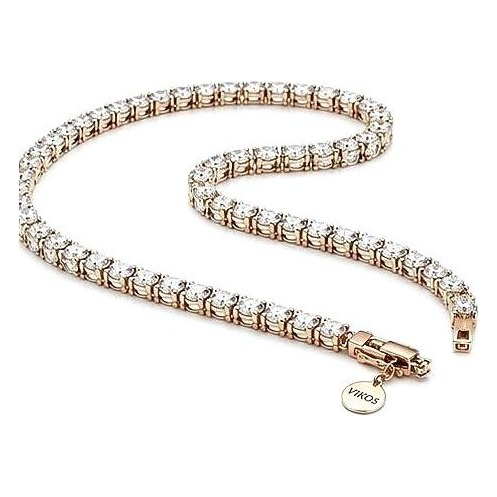
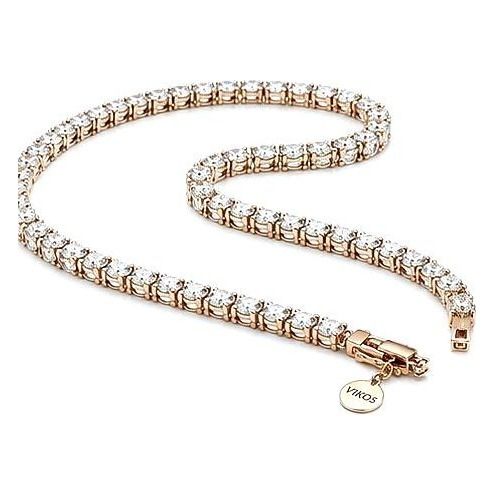
Fix nk_04/nk_05 front crops (full necklace in frame); skeleton instead of stale product flash on shop load

Changed region(s): [[0.0303, 0.1515, 0.9697, 0.8485]]

diff --git a/app/shop/page.tsx b/app/shop/page.tsx
@@ -232,17 +232,17 @@ function ProductCard({ p, index }: { p: Product; index: number }) {
 
 function ShopContent() {
   const { lang } = useLang();
-  // Rings and bracelets exist only in Supabase — exclude static placeholders from initial state
-  const [products, setProducts] = useState<typeof allProducts>(
-    allProducts.filter(p => p.category !== "rings" && p.category !== "bracelets")
-  );
+  // Supabase is the single source of truth — start empty with a skeleton (no stale static flash)
+  const [products, setProducts] = useState<typeof allProducts>([]);
+  const [loaded, setLoaded] = useState(false);
 
   useEffect(() => {
     function loadProducts() {
       fetch("/api/products")
         .then(r => r.ok ? r.json() : null)
         .then(data => { if (data?.length) setProducts(data); })
-        .catch(() => {});
+        .catch(() => {})
+        .finally(() => setLoaded(true));
     }
     loadProducts();
     // Re-fetch when user switches back to this tab (e.g. after editing in admin)
@@ -448,11 +448,19 @@ function ShopContent() {
           <motion.div key={activeCategory + sort + material + search + onlyNew + onlyBestseller + maxPrice}
             initial={{ opacity: 0 }} animate={{ opacity: 1 }} exit={{ opacity: 0 }} transition={{ duration: 0.25 }}
             style={{ display: "grid", gridTemplateColumns: "repeat(4, 1fr)", gap: "40px 20px" }} className="shop-grid">
-            {filtered.map((p, i) => <ProductCard key={p.id} p={p} index={i} />)}
+            {!loaded
+              ? Array.from({ length: 8 }).map((_, i) => (
+                  <div key={i}>
+                    <div style={{ aspectRatio: "1/1", background: "#F7F6F4", marginBottom: "14px", opacity: 0.7 }} />
+                    <div style={{ height: "14px", background: "#F2F0ED", marginBottom: "6px", width: "70%" }} />
+                    <div style={{ height: "11px", background: "#F7F6F4", width: "40%" }} />
+                  </div>
+                ))
+              : filtered.map((p, i) => <ProductCard key={p.id} p={p} index={i} />)}
           </motion.div>
         </AnimatePresence>
 
-        {filtered.length === 0 && (
+        {loaded && filtered.length === 0 && (
           <div style={{ textAlign: "center", padding: "96px 0", display: "flex", flexDirection: "column", alignItems: "center", gap: "16px" }}>
             <IconX size={32} color={T.light} />
             <p style={{ fontFamily: T.serif, fontSize: "1.2rem", color: T.light, fontWeight: 300 }}>{lang === "en" ? "No items found" : "לא נמצאו פריטים"}</p>
